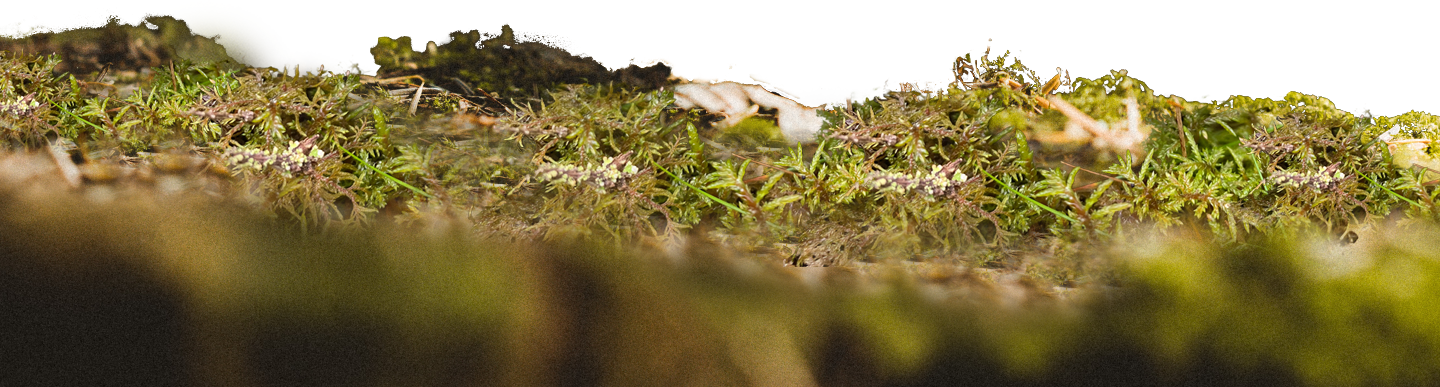
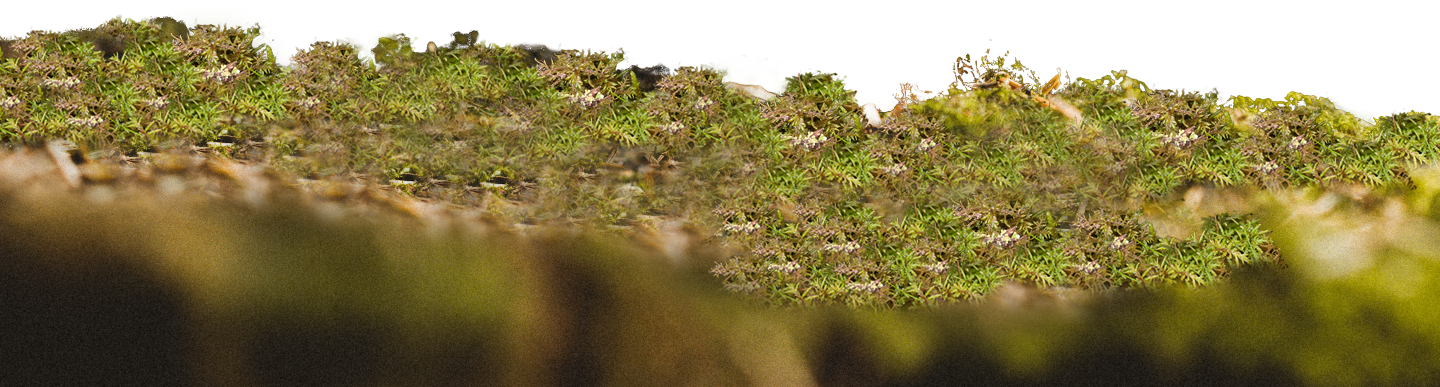
Update bg images

diff --git a/src/components/App/App.js b/src/components/App/App.js
@@ -40,6 +40,13 @@ function App() {
           }
         }
       }
+      layer_grass: file(relativePath: { eq: "layer_grass.png" }) {
+        childImageSharp {
+          fluid(quality: 70, maxWidth: 1000) {
+            ...GatsbyImageSharpFluid_noBase64
+          }
+        }
+      }
       layer6: file(relativePath: { eq: "layer6.png" }) {
         childImageSharp {
           fluid(quality: 70, maxWidth: 1000) {
@@ -61,6 +68,7 @@ function App() {
   const layer3 = data.layer3.childImageSharp.fluid
   const layer4 = data.layer4.childImageSharp.fluid
   const layer5 = data.layer5.childImageSharp.fluid
+  const layer_grass = data.layer_grass.childImageSharp.fluid
   const layer6 = data.layer6.childImageSharp.fluid
   const layer7 = data.layer7.childImageSharp.fluid
 
@@ -96,6 +104,7 @@ function App() {
     const layer3 = document.querySelector(".layer3")
     const layer4 = document.querySelector(".layer4")
     const layer5 = document.querySelector(".layer5")
+    const layer_grass = document.querySelector(".layer_grass")
     const layer6 = document.querySelector(".layer6")
     const layer7 = document.querySelector(".layer7")
     button.addEventListener("click", onClick)
@@ -124,6 +133,9 @@ function App() {
                   }px,0px)`
                   layer4.style.transform = `translate3d(${-gamma * 1.04}px,${
                     -beta * 1.02
+                  }px,0px)`
+                  layer_grass.style.transform = `translate3d(${-gamma * 1}px,${
+                    -beta * 0.9
                   }px,0px)`
                   layer5.style.transform = `translate3d(${-gamma * 0.8}px,${
                     -beta * 0.9
@@ -159,15 +171,18 @@ function App() {
           layer4.style.transform = `translate3d(${-x * 0.08}px,${
             -y * 0.04
           }px,0px`
+          layer_grass.style.transform = `translate3d(${-x * 0.11}px,${
+            -y * 0.03
+          }px,0px`
           layer5.style.transform = `translate3d(${-x * 0.09}px,${
             -y * 0.03
           }px,0px`
           layer6.style.transform = `translate3d(${-x * 0.04}px,${
             -y * 0.02
           }px,0px`
-          // layer7.style.transform = `translate3d(${-x * 0.03}px,${
-          //   -y * 0.01
-          // }px,0px`
+          layer7.style.transform = `translate3d(${-x * 0.03}px,${
+            -y * 0.01
+          }px,0px`
         })
       }
     }
@@ -185,6 +200,9 @@ function App() {
         </div>
         <div className="parallax-layer layer5">
           <Img fluid={layer5} alt="" />
+        </div>
+        <div className="parallax-layer layer_grass">
+          <Img fluid={layer_grass} alt="" />
         </div>
         <div className="parallax-layer layer4">
           <Img fluid={layer4} alt="" />

diff --git a/src/assets/styles/App.scss b/src/assets/styles/App.scss
@@ -148,6 +148,19 @@ html {
       bottom: 15%;
     }
   }
+  .layer_grass {
+    width: 200%;
+    left: -70%;
+    height: 20%;
+    margin: auto;
+    right: 0;
+    bottom: 5%;
+    @include medium {
+      left: -20%;
+      bottom: 15%;
+      width: 140%;
+    }
+  }
   .layer6 {
     width: 130%;
     height: 42%;
@@ -156,8 +169,8 @@ html {
     bottom: -5%;
     right: 0;
     @include medium {
-      height: 45%;
-      bottom: -3%;
+      height: 68%;
+      bottom: -15%;
     }
     .gatsby-image-wrapper {
       height: 100%;
